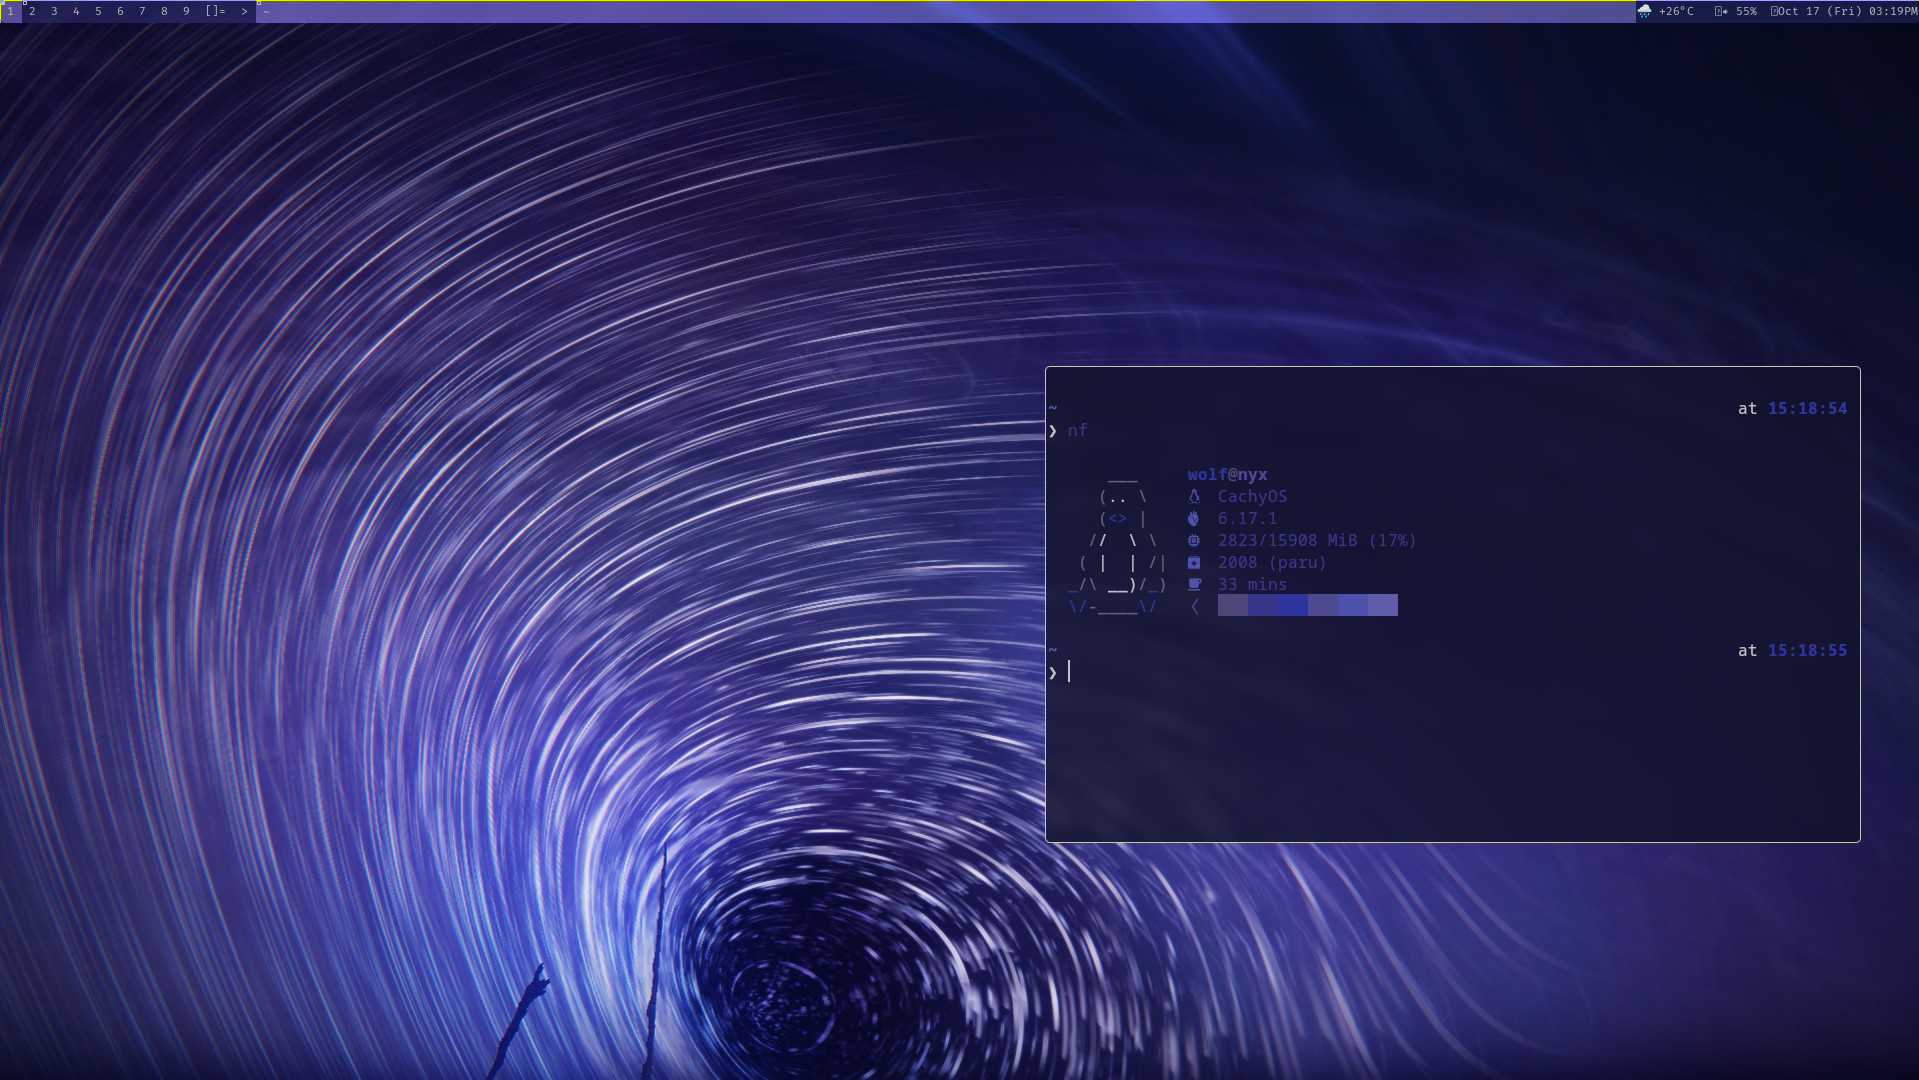
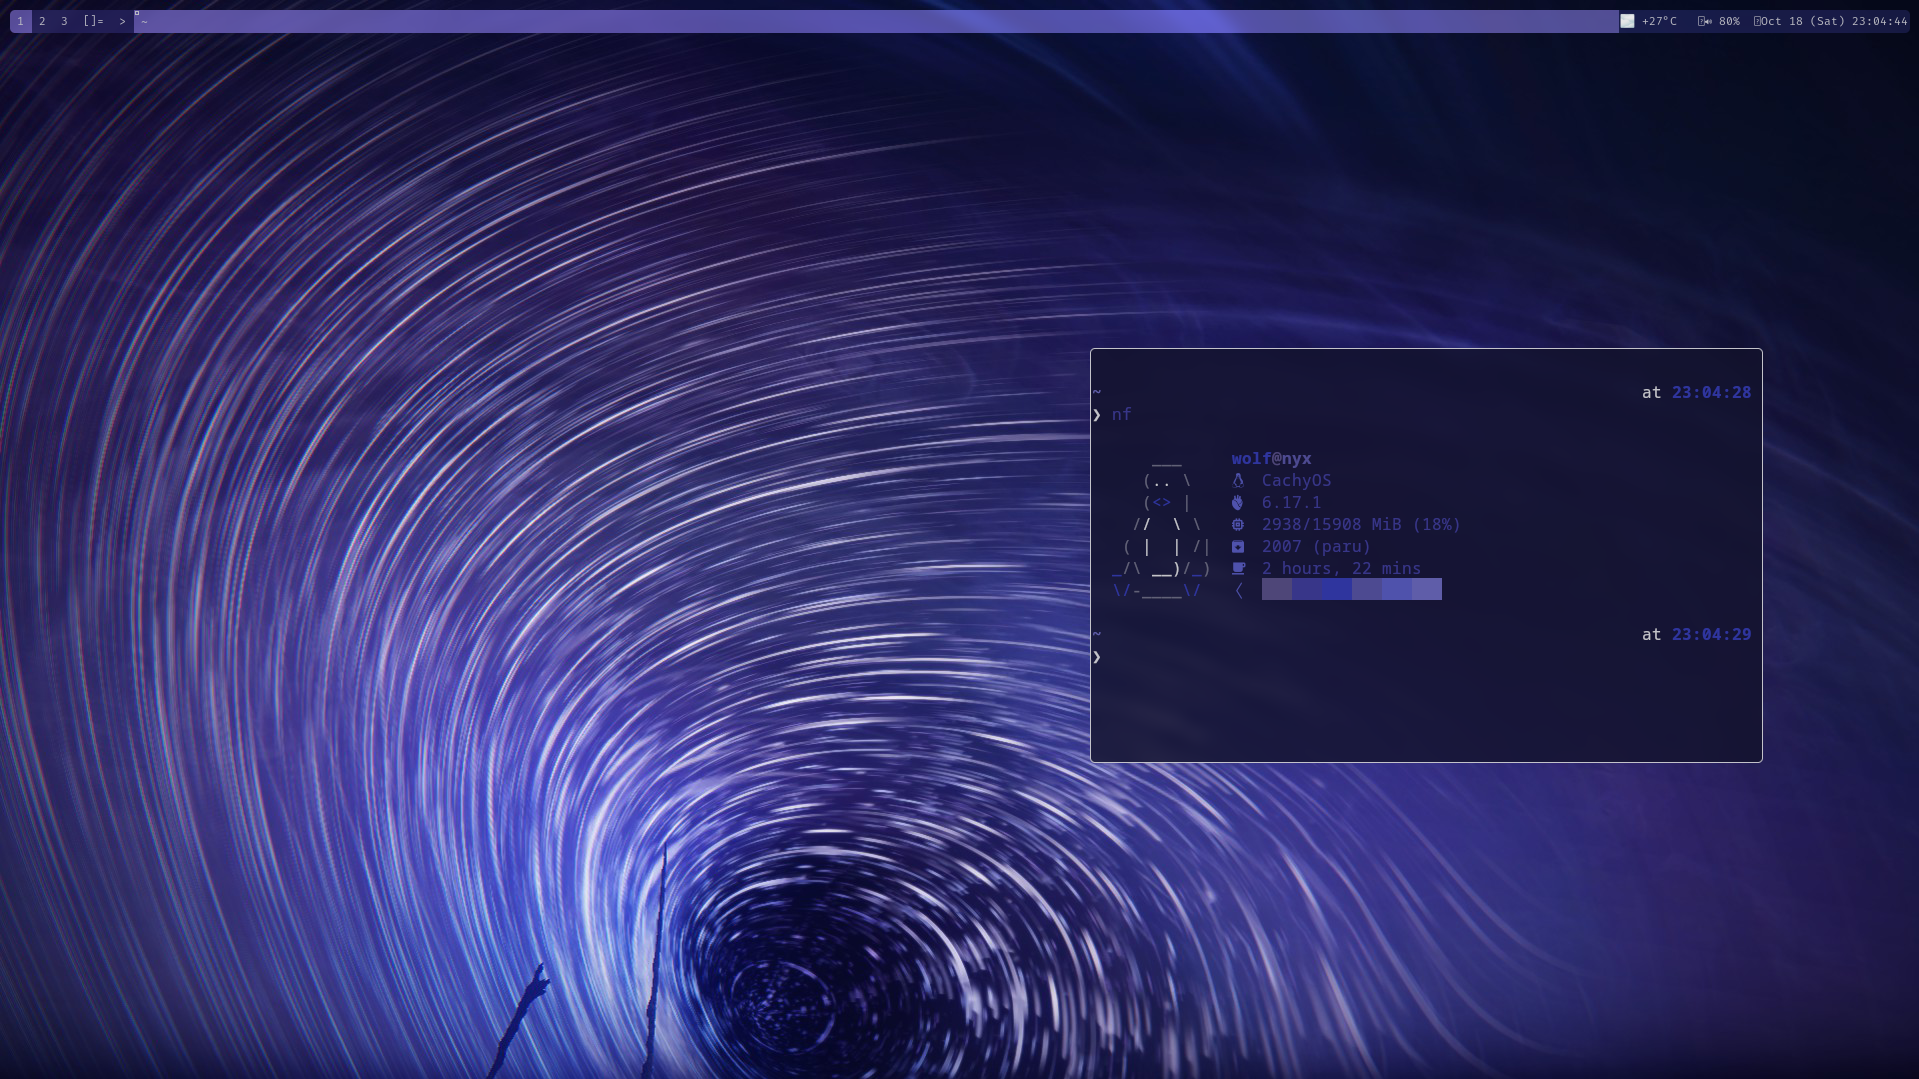
docs: added patch links and a new screenshot to readme

diff --git a/readme.md b/readme.md
@@ -12,27 +12,27 @@
 - configured entirely through modifying the source code, `dwm` is a blast to sift through, and teaches you tons about `c`.
 
 ## patches
-- actualfullscsreen
+- [actualfullscsreen](https://dwm.suckless.org/patches/actualfullscreen/)
     - changes fullscreen behaviour into actual fullscreen instead of bartoggle+monocle
-- alpha
+- [alpha](https://dwm.suckless.org/patches/alpha/)
     - allows statusbar and window borders to be transparent
-- bar-height-spacing
+- [bar-height-spacing](https://dwm.suckless.org/patches/bar_height/)
     - lets you set the height of the bar
-- barpadding
+- [barpadding](https://dwm.suckless.org/patches/barpadding/)
     - adds padding around the edges of the bar
-- cool_autostart
+- [cool_autostart](https://dwm.suckless.org/patches/cool_autostart/)
     - implements autostart functionality controllable through `config.def.h`
-- focusmonmouse
+- [focusmonmouse](https://dwm.suckless.org/patches/focusmonmouse/)
     - makes the mouse pointer follow focus change to a different output
-- fullgaps
+- [fullgaps](https://dwm.suckless.org/patches/fullgaps/)
     - adds controllable gaps between windows
-- hide_vacant_tags
+- [hide_vacant_tags](https://dwm.suckless.org/patches/hide_vacant_tags/)
     - hides the tags that don't have a window from the bar
-- restartsig
+- [restartsig](https://dwm.suckless.org/patches/restartsig/)
     - adds a keybinding to restart dwm inplace
-- statusallmons
+- [statusallmons](https://dwm.suckless.org/patches/statusallmons/)
     - shows the status portion of the bar on all outputs instead of only the focused one
-- windowfollow
+- [windowfollow](https://dwm.suckless.org/patches/windowfollow/)
     - makes focus follow a window that's been sent to a different tag
 
 ## statusbar
